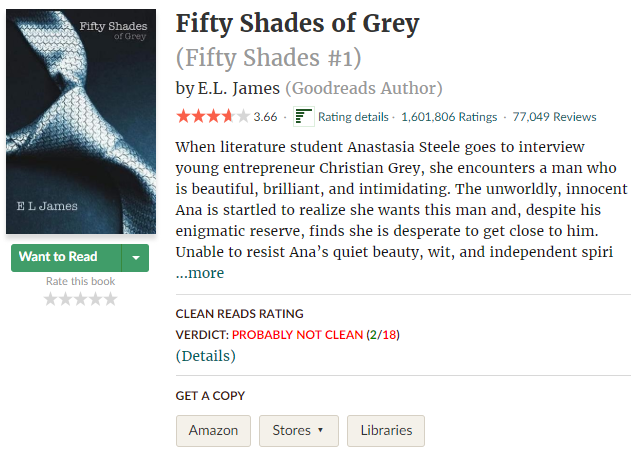
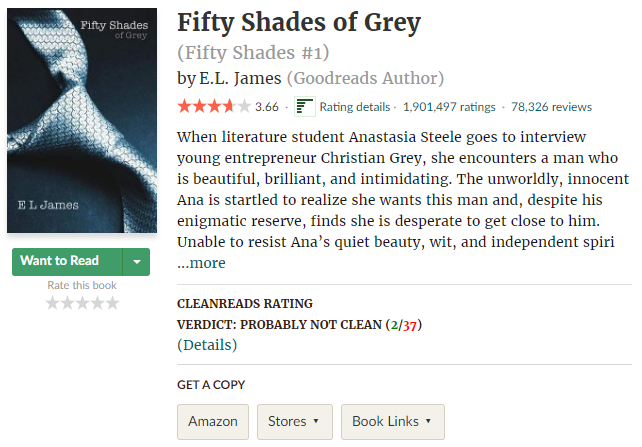
Add shelf name matches to verdict (#3)
* Search top 100 shelves for positive/negative terms

* Update readme with settings and changes

diff --git a/cleanReads.user.js b/cleanReads.user.js
@@ -1,7 +1,7 @@
 // ==UserScript==
 // @name         Cleanreads
 // @namespace    http://hermanfassett.me
-// @version      1.3
+// @version      1.4
 // @description  Cleanreads userscript for Goodreads.com
 // @author       Herman Fassett
 // @match        https://www.goodreads.com/*
@@ -76,7 +76,8 @@ GM_addStyle( `
     /** The negative search terms when determining verdict */
     Cleanreads.NEGATIVE_SEARCH_TERMS = [
         { term: 'sex', exclude: { before: ['no'], after: ['ist'] }},
-        { term: 'adult', exclude: { before: ['young', 'new'], after: []}}
+        { term: 'adult', exclude: { before: ['young', 'new'], after: ['hood', 'ing']}},
+        { term: 'erotic', exclude: { before: ['not', 'isn\'t'], after: []}}
     ];
 
     Cleanreads.SNIPPET_HALF_LENGTH = 65;
@@ -261,8 +262,10 @@ GM_addStyle( `
     Cleanreads.setupRating = function() {
         let match = window.location.pathname.match(/book\/show\/(\d+)/);
         if (match && match.length > 1) {
+            Cleanreads.bookId = window.location.pathname.match(/show\/(\d*)/)[1];
             Cleanreads.loadSettings();
             Cleanreads.reviews = [];
+            Cleanreads.shelves = [];
             Cleanreads.positives = 0;
             Cleanreads.negatives = 0;
 
@@ -283,7 +286,11 @@ GM_addStyle( `
             container.parentNode.insertBefore(contentDescription, container.nextSibling);
             Cleanreads.crDetails = document.getElementById('crDetails');
             document.getElementById('expandCrDetails').onclick = Cleanreads.expandDetails;
-            Cleanreads.startReviews();
+
+            Cleanreads.getTopBookShelves(Cleanreads.bookId).then(shelves => {
+                Cleanreads.shelves = shelves;
+                Cleanreads.startReviews();
+            }).catch(err => Cleanreads.startReviews());
         }
     };
 
@@ -337,7 +344,22 @@ GM_addStyle( `
             })
             .fail(err => reject(err));
         });
-    }
+    };
+
+    /**
+     * Get the top 100 shelf names for a given book
+     * @param {string} bookId - The book id
+     * @returns {Promise} - A promise that resolves to array of top 100 shelves for given book 
+     */
+    Cleanreads.getTopBookShelves = function(bookId) {
+        return new Promise(function(resolve, reject) {
+            jQuery.ajax(`${window.location.origin}/book/shelves/${bookId}`)
+            .done(result => {
+                resolve(jQuery(result).find('.shelfStat').toArray().map(x => `${jQuery(x).find('.actionLinkLite').text().replace(/-/gi, ' ')} (${jQuery(x).find('.smallText').text().trim()})`));
+            })
+            .fail(err => reject(err));
+        });
+    };
 
     /**
      * Get list titles
@@ -374,19 +396,25 @@ GM_addStyle( `
         Cleanreads.crDetails.innerHTML += `<h2 class="buyButtonContainer__title u-marginTopXSmall">Description Content Basis: </h2><div id="descriptionBasis"></div>`;
         Cleanreads.crDetails.innerHTML += `<h2 class="buyButtonContainer__title u-marginTopXSmall">Clean Basis: </h2><div id="cleanBasis"></div>`;
         Cleanreads.crDetails.innerHTML += `<h2 class="buyButtonContainer__title u-marginTopXSmall">Not Clean Basis: </h2><div id="notCleanBasis"></div>`;
+        
         // Get containers
         let descriptionBasis = document.getElementById('descriptionBasis'),
             cleanBasis = document.getElementById('cleanBasis'),
             notCleanBasis = document.getElementById('notCleanBasis');
+
         // Search description
         let description = `Title: ${Cleanreads.getTitle()}\nDescription: ${Cleanreads.getDescription()}`;
-        Cleanreads.POSITIVE_SEARCH_TERMS.forEach(term => Cleanreads.searchContent(term, description, descriptionBasis, true));
-        Cleanreads.NEGATIVE_SEARCH_TERMS.forEach(term => Cleanreads.searchContent(term, description, descriptionBasis, false));
+        Cleanreads.searchContent(Cleanreads.POSITIVE_SEARCH_TERMS, [description], descriptionBasis, true, Cleanreads.insertComment);
+        Cleanreads.searchContent(Cleanreads.NEGATIVE_SEARCH_TERMS, [description], descriptionBasis, false, Cleanreads.insertComment);
+
+        // Search top shelves
+        Cleanreads.searchContent(Cleanreads.POSITIVE_SEARCH_TERMS, Cleanreads.shelves, cleanBasis, true, Cleanreads.insertShelf);
+        Cleanreads.searchContent(Cleanreads.NEGATIVE_SEARCH_TERMS, Cleanreads.shelves, notCleanBasis, false, Cleanreads.insertShelf);
+
         // Search reviews
-        Cleanreads.reviews.forEach(review => {
-            Cleanreads.POSITIVE_SEARCH_TERMS.forEach(term => Cleanreads.searchContent(term, review, cleanBasis, true));
-            Cleanreads.NEGATIVE_SEARCH_TERMS.forEach(term => Cleanreads.searchContent(term, review, notCleanBasis, false));
-        });
+        Cleanreads.searchContent(Cleanreads.POSITIVE_SEARCH_TERMS, Cleanreads.reviews, cleanBasis, true, Cleanreads.insertComment);
+        Cleanreads.searchContent(Cleanreads.NEGATIVE_SEARCH_TERMS, Cleanreads.reviews, notCleanBasis, false, Cleanreads.insertComment);
+
         // Fill bases if nothing
         if (!descriptionBasis.innerHTML) {
             descriptionBasis.innerHTML = '<i class="contentComment">None</i>';
@@ -406,25 +434,58 @@ GM_addStyle( `
     };
 
     /**
-     * Search text for a given term, add found position to given container and increment positive/negative verdict
-     * @param {string} term - The search term
-     * @param {string} content - The content to search
-     * @param {element} container - The dom element to append result to
-     * @param {boolean} positive - Flag if positive or negative search term to determine result
+     * Function to search for terms in a given string
+     * @param {term} term - Term object to match in content
+     * @param {string} content - Content to search
+     * @returns {Array} - RegExp result array
      */
-    Cleanreads.searchContent = function(term, content, container, positive) {
+    Cleanreads.matchTerm = function(term, content) {
         let regex = new RegExp(`(^|[^(${term.exclude.before.join`|`}|\\s*)])(\\W*)(${term.term})(\\W*)($|[^(${term.exclude.after.join`|`}|\\s*)])`);
         let contentMatch = content.toLowerCase().match(regex);
-        if (contentMatch) {
-            positive ? Cleanreads.positives++ : Cleanreads.negatives++;
-            let index = contentMatch.index + contentMatch[1].length + contentMatch[2].length;
-            container.innerHTML += `
-                <div class="contentComment">
-                    ...${content.slice(index - Cleanreads.SNIPPET_HALF_LENGTH, index)}<b class="content${positive ? '' : 'Not'}Clean">${
-                        content.substr(index, contentMatch[3].length)
-                    }</b>${content.slice(index + contentMatch[3].length, index + Cleanreads.SNIPPET_HALF_LENGTH)}...
-                </div>`;
-        }
+        return contentMatch;
+    }
+
+    /**
+     * Search string array for given list of terms, add matches to given container, and increment positive/negative verdict
+     * @param {term object array} terms - Terms to search for
+     * @param {string array} contents - Contents to search
+     * @param {element} container - Result container
+     * @param {boolean} positive - Flag if positive or negative search term to determine result
+     * @param {function} insertFunction - Function to append result to container
+     */
+    Cleanreads.searchContent = function(terms, contents, container, positive, insertFunction) {
+        contents.forEach(content => {
+            terms.forEach(term => {
+                let contentMatch = Cleanreads.matchTerm(term, content);
+                if (!!contentMatch) {
+                    positive ? Cleanreads.positives++ : Cleanreads.negatives++;
+                    let index = contentMatch.index + contentMatch[1].length + contentMatch[2].length;
+                    insertFunction(content, contentMatch[3], index, positive, container);
+                }
+            });
+        })
+    };
+
+    /** Insert a matched comment into given container */
+    Cleanreads.insertComment = function(content, term, index, positive, container) {
+        container.innerHTML += `
+            <div class="contentComment">
+                ...${content.slice(index - Cleanreads.SNIPPET_HALF_LENGTH, index)}<b class="content${positive ? '' : 'Not'}Clean">${
+                    content.substr(index, term.length)
+                }</b>${content.slice(index + term.length, index + Cleanreads.SNIPPET_HALF_LENGTH)}...
+            </div>
+        `;
+    };
+
+    /** Insert a matched shelf into given container */
+    Cleanreads.insertShelf = function(content, term, index, positive, container) {
+        container.innerHTML += `
+            <div class="contentComment">
+                Shelved as: ${content.slice(0, index)}<b class="content${positive ? '' : 'Not'}Clean">${
+                    content.substr(index, term.length)
+                }</b>${content.slice(index + term.length)}
+            </div>
+        `;
     };
 
     /**

diff --git a/README.md b/README.md
@@ -34,16 +34,46 @@ Once you've installed the script, that should be all there is to it! Go visit a 
 
 ## Instructions
 
+### Basic Usage
+
 All you need to do is visit a book and it should all work! The script will parse the data on the page, give you a Cleanreads rating guesstimate and let you view the details of how it came up with the estimate.
 
-When you first load the page it might take a few seconds but then it should give you a simple verdict: ![Basic example](/images/Basic_Example.png)
+When you first load the page it might take a few seconds but then it should give you a simple verdict which can be expanded: 
 
-First it gives a simple rating (Most likely clean, Probably not clean, Unknown, etc), then shows in parentheses the count of positive terms and negative terms it found in description/reviews that it based the rating on. For instance "Probably not clean (1/5)" would mean Cleanreads found 1 term that indicated it may be a clean read and 5 terms that indicated it may not be a clean read, so it is probably not a clean read.
+![Basic example](/images/Basic_Example.png)
 
-If you want to see exactly how Cleanreads determined the rating, just click the (Details) link and it should expand to show where it is drawing its conclusion from:
+First it gives a simple rating (Most likely clean, Probably not clean, Unknown, etc), then shows in parentheses the count of positive terms and negative terms it found in description/shelves/reviews that it based the rating on. For instance "Probably not clean (1/5)" would mean Cleanreads found 1 term that indicated it may be a clean read and 5 terms that indicated it may not be a clean read, so it is probably not a clean read.
 
-![Example details](/images/Details_Example.png)
+If you want to see exactly how Cleanreads determined the rating, just click the (Details) link and it should expand to show where it is drawing its conclusion from.
+
+Here are a couple examples:
+
+![Example details](/images/Details_Example_2.png) ![Example details](/images/Details_Example.png)
 
 Clicking (Hide) should once again collapse the details.
 
-That's all you need to know! Have fun!
+That's all you need to know for basic usage, but you can also fine tune how it determines what is clean in the settings.
+
+### Settings
+
+To find the settings, go to your profile (if you're not logged in you can find it on anyone's profile), and there should be a link to "Cleanreads settings" available. When you click on that the default settings will pop up and be available for editing:
+
+![Settings dialog](/images/Settings_Dialog.png)
+
+Here there are several options:
+
+1.	Add Positive: adds a new positive search term that adds a point towards the book being clean if matched.
+2.	Add Negative: adds a new negative search term that adds a point towards the book NOT being clean if matched.
+3.	Reset: This resets all the settings back to default. For now default is pretty simple as shown but can be expanded. Could also potentially add import/export if desired.
+4.	Snippet Length: Here you can determine how long the snippet shown before and after a matched term in a review in the expanded Cleanread description is.
+5.	Max Verdict Load Attempts: This determines how long it tries to load reviews since they don't load immediately with the page. Increase this if you have exceptionally slow internet I guess...
+
+But how exactly do these Positive/Negative search terms work?
+
+As you can see there are three columns to each search term row. These columns represent in order the "before" text to ignore, the term to match, and the "after" text to ignore.
+
+For instance, for the column that has "no" in the before column, "sex" in the match column, and "ist" in the after column, this means that Cleanreads will search for the word "sex" in reviews/description/shelf names, and count that as a negative search term ONLY if the actual text doesn't read "no sex" or "sexist". Also, the before and after columns allow comma-separated values, so you could change the before column to be "no, very little" and then if it found the text "very little sex" in a review, it would ignore it as a negative search term, but it would match something like "some sex ....".
+
+Now, you should be able to add your own columns. For example, you can click that Add Negative button, and just put "gore" in the middle match column. This way it doesn't care where or how gore appears in a review, if it finds it, that will be a mark against this book being clean.
+
+Hopefully this at least kind of makes sense. Feel free to reach out with questions or rewrite these instructions if you can come up with better. :) Have fun reading!
